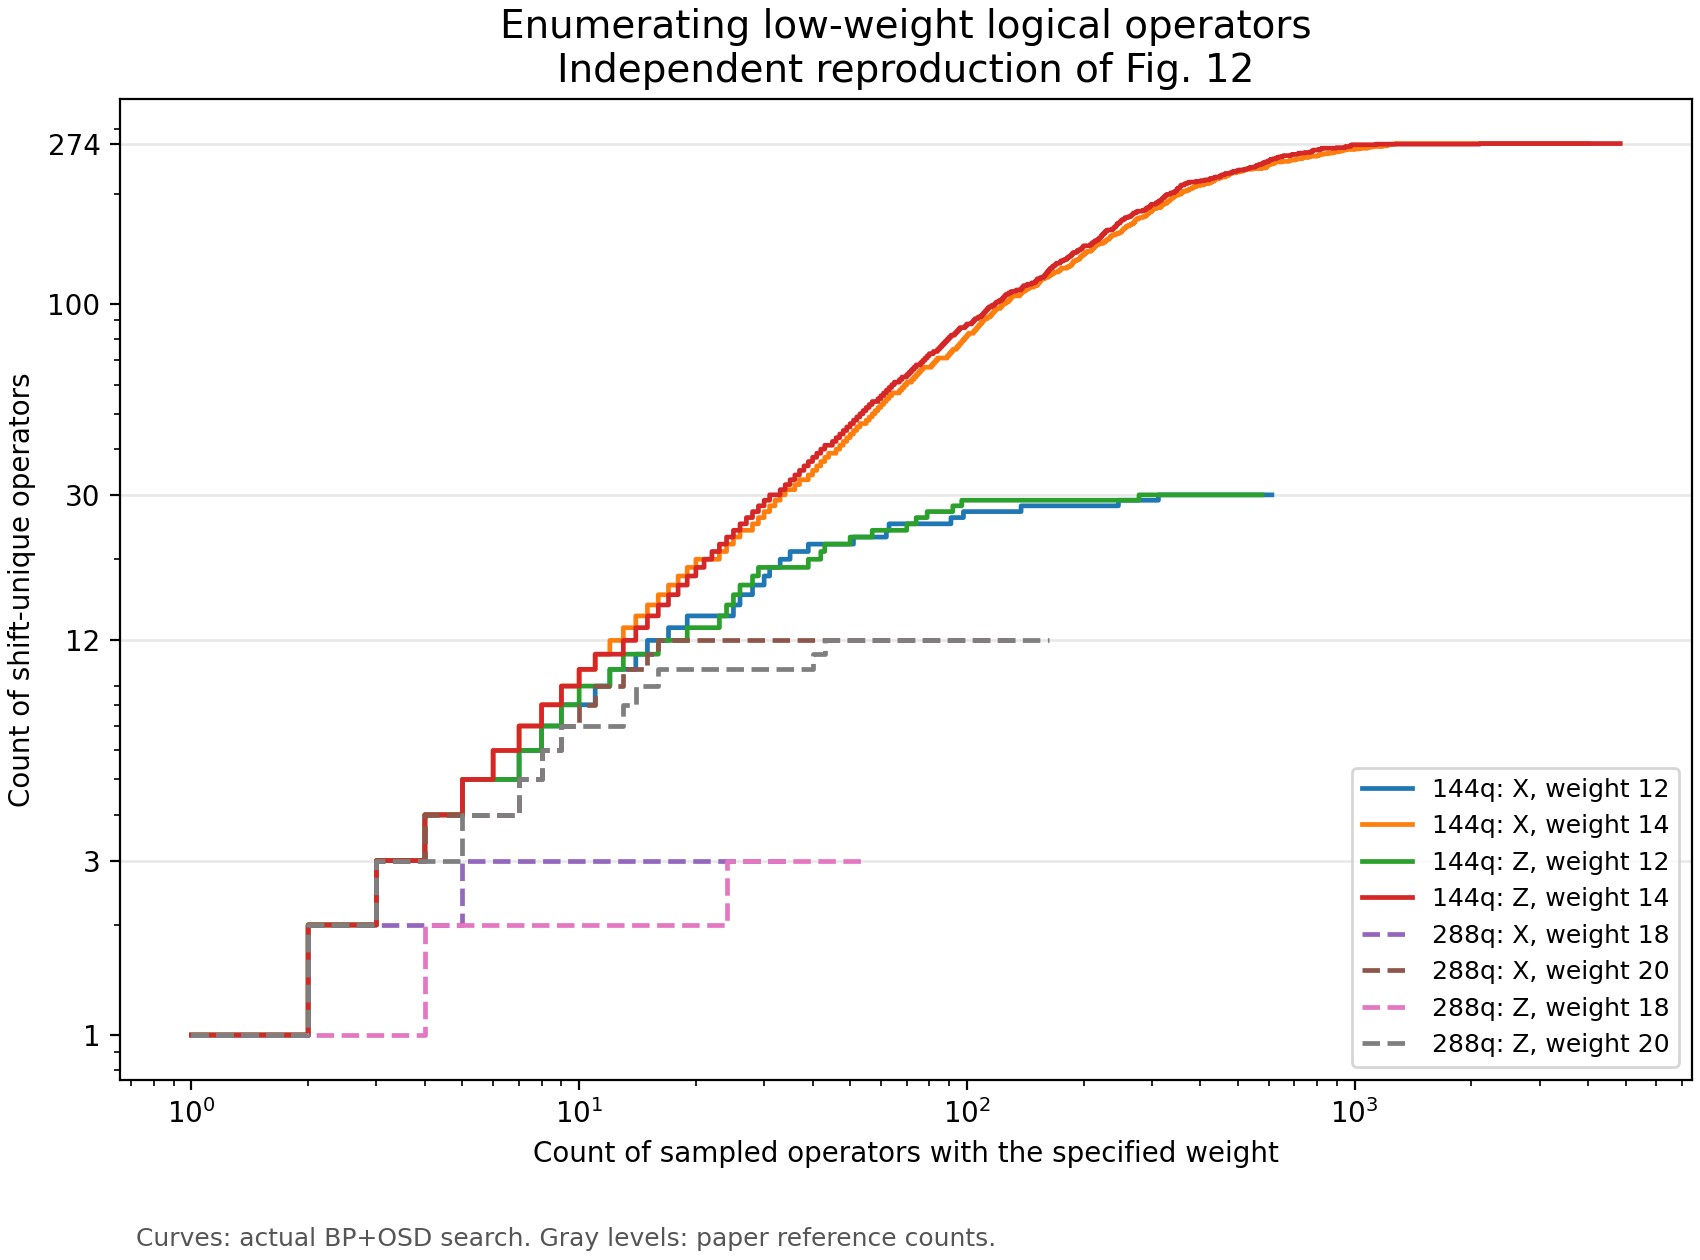
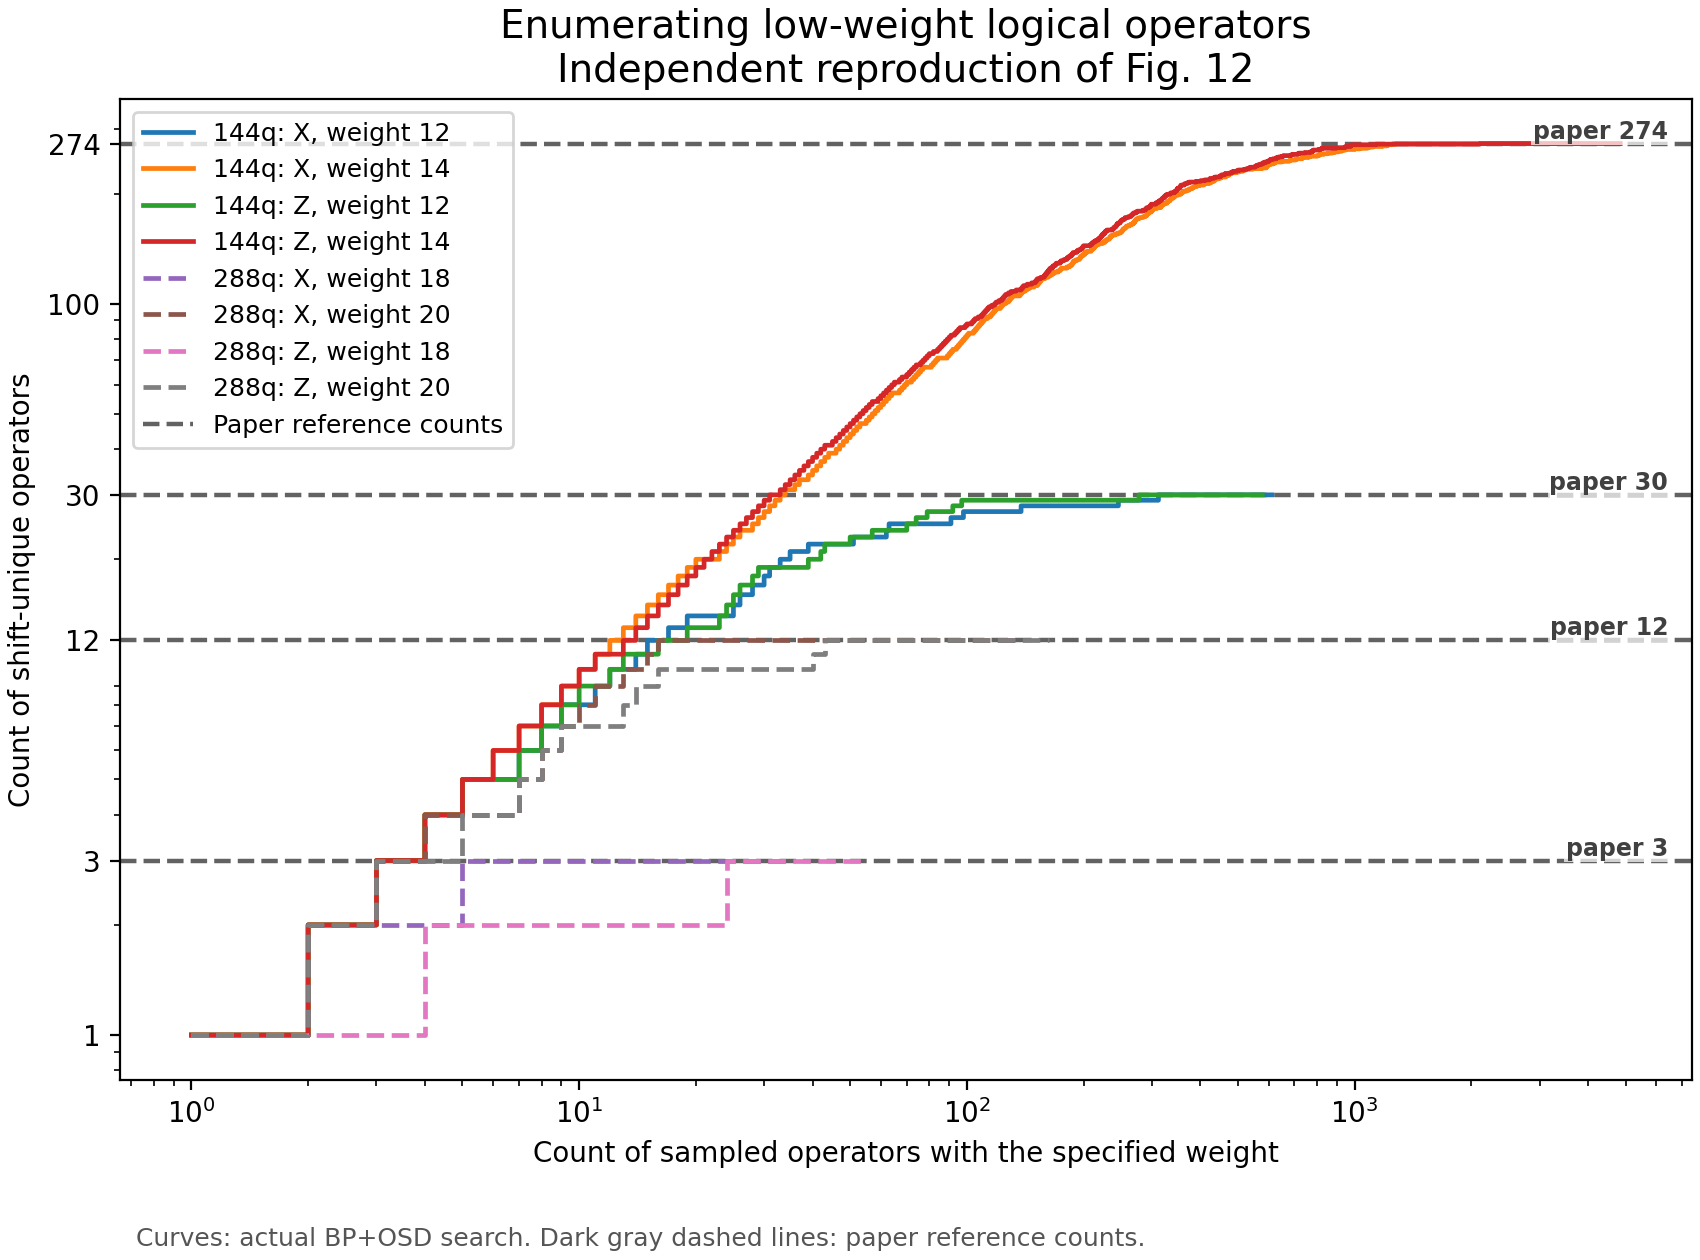
Improve paper reference visibility in Figure 12

diff --git a/plot_results.py b/plot_results.py
@@ -32,16 +32,20 @@ def plot(inputs, outdir):
                              counts_match=w['shift_unique']==target['shift_unique'] and w['all_shifts']==target['all_shifts'],
                              stopping_rule_met=w['saturated'],trials=result['trials'],
                              elapsed_seconds=round(result['elapsed_seconds'],2),seed=cfg['seed']))
-    for level in (3, 12, 30, 274):
-        ax.axhline(level, color='0.75', lw=1.2, ls='--', zorder=0)
+    for index, level in enumerate((3, 12, 30, 274)):
+        ax.axhline(level, color='0.35', lw=1.6, ls='--', alpha=0.95, zorder=1,
+                   label='Paper reference counts' if index == 0 else None)
+        ax.text(0.985, level, f'paper {level}', transform=ax.get_yaxis_transform(),
+                ha='right', va='bottom', fontsize=8.5, color='0.25', fontweight='semibold',
+                bbox=dict(facecolor='white', edgecolor='none', alpha=0.72, pad=0.6))
     ax.set_xscale('log'); ax.set_yscale('log')
     ax.set_yticks([1,3,12,30,100,274],labels=['1','3','12','30','100','274'])
     ax.set_xlabel('Count of sampled operators with the specified weight')
     ax.set_ylabel('Count of shift-unique operators')
     ax.set_title('Enumerating low-weight logical operators\nIndependent reproduction of Fig. 12',fontsize=14)
-    if ax.get_legend_handles_labels()[0]: ax.legend(loc='lower right',fontsize=9)
-    ax.text(0.01,-.17,'Curves: actual BP+OSD search. Gray levels: paper reference counts.',
-        transform=ax.transAxes,fontsize=9,color='#555555')
+    if ax.get_legend_handles_labels()[0]: ax.legend(loc='upper left',fontsize=9)
+    ax.text(0.01,-.17,'Curves: actual BP+OSD search. Dark gray dashed lines: paper reference counts.',
+            transform=ax.transAxes,fontsize=9,color='#555555')
     fig.savefig(outdir/'fig12_reproduced.png',dpi=200)
     fig.savefig(outdir/'fig12_reproduced.svg')
     plt.close(fig)
